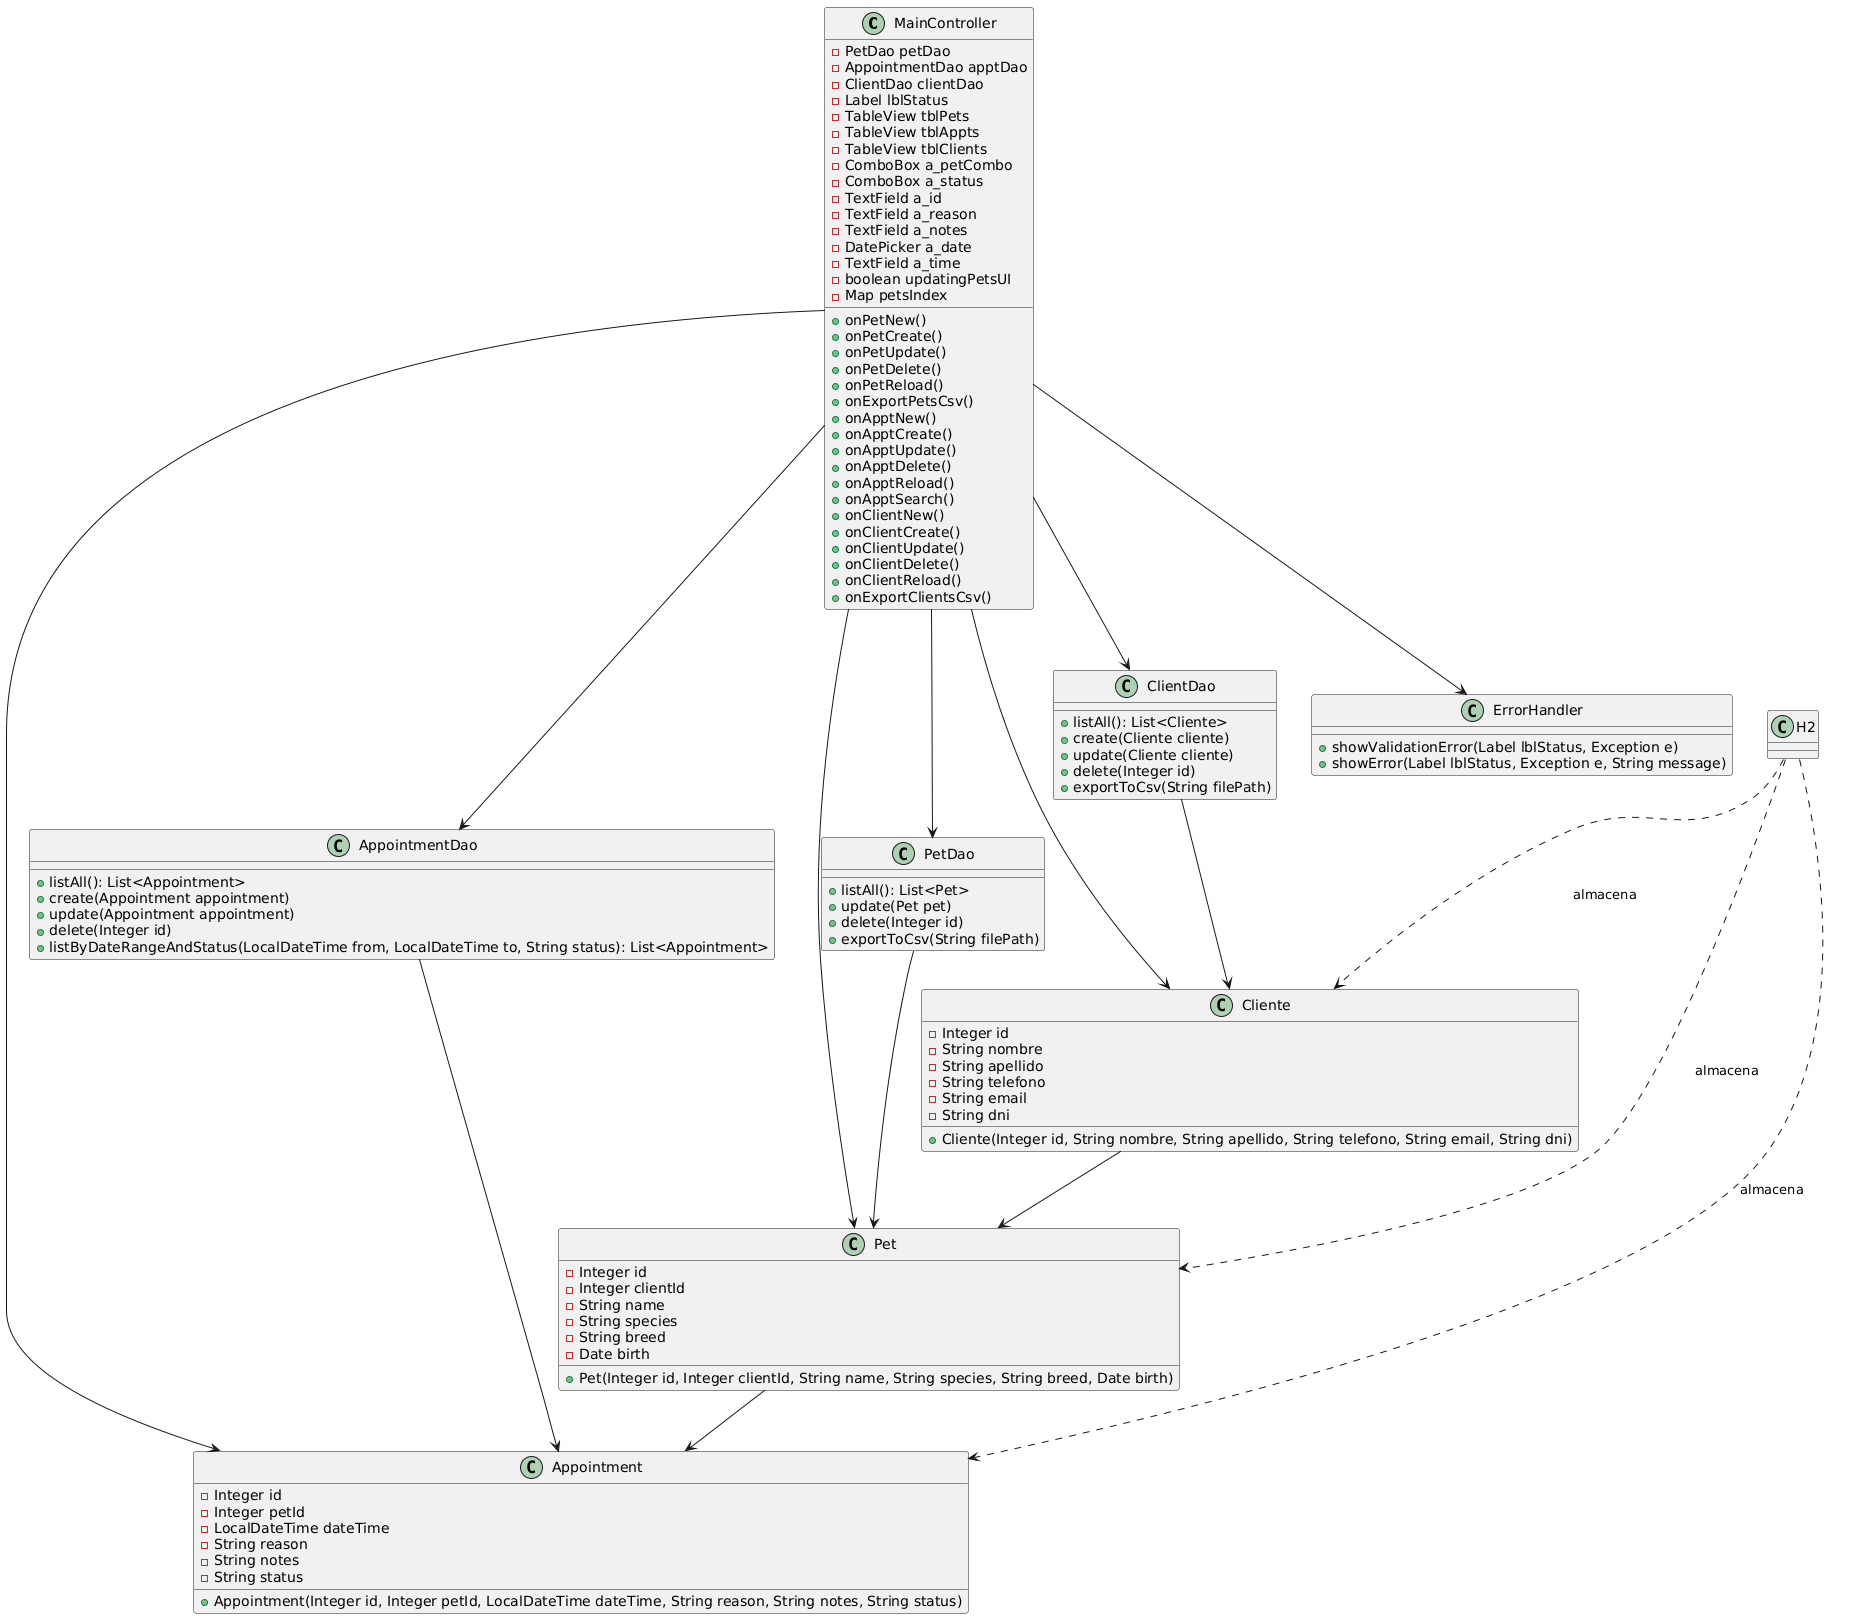
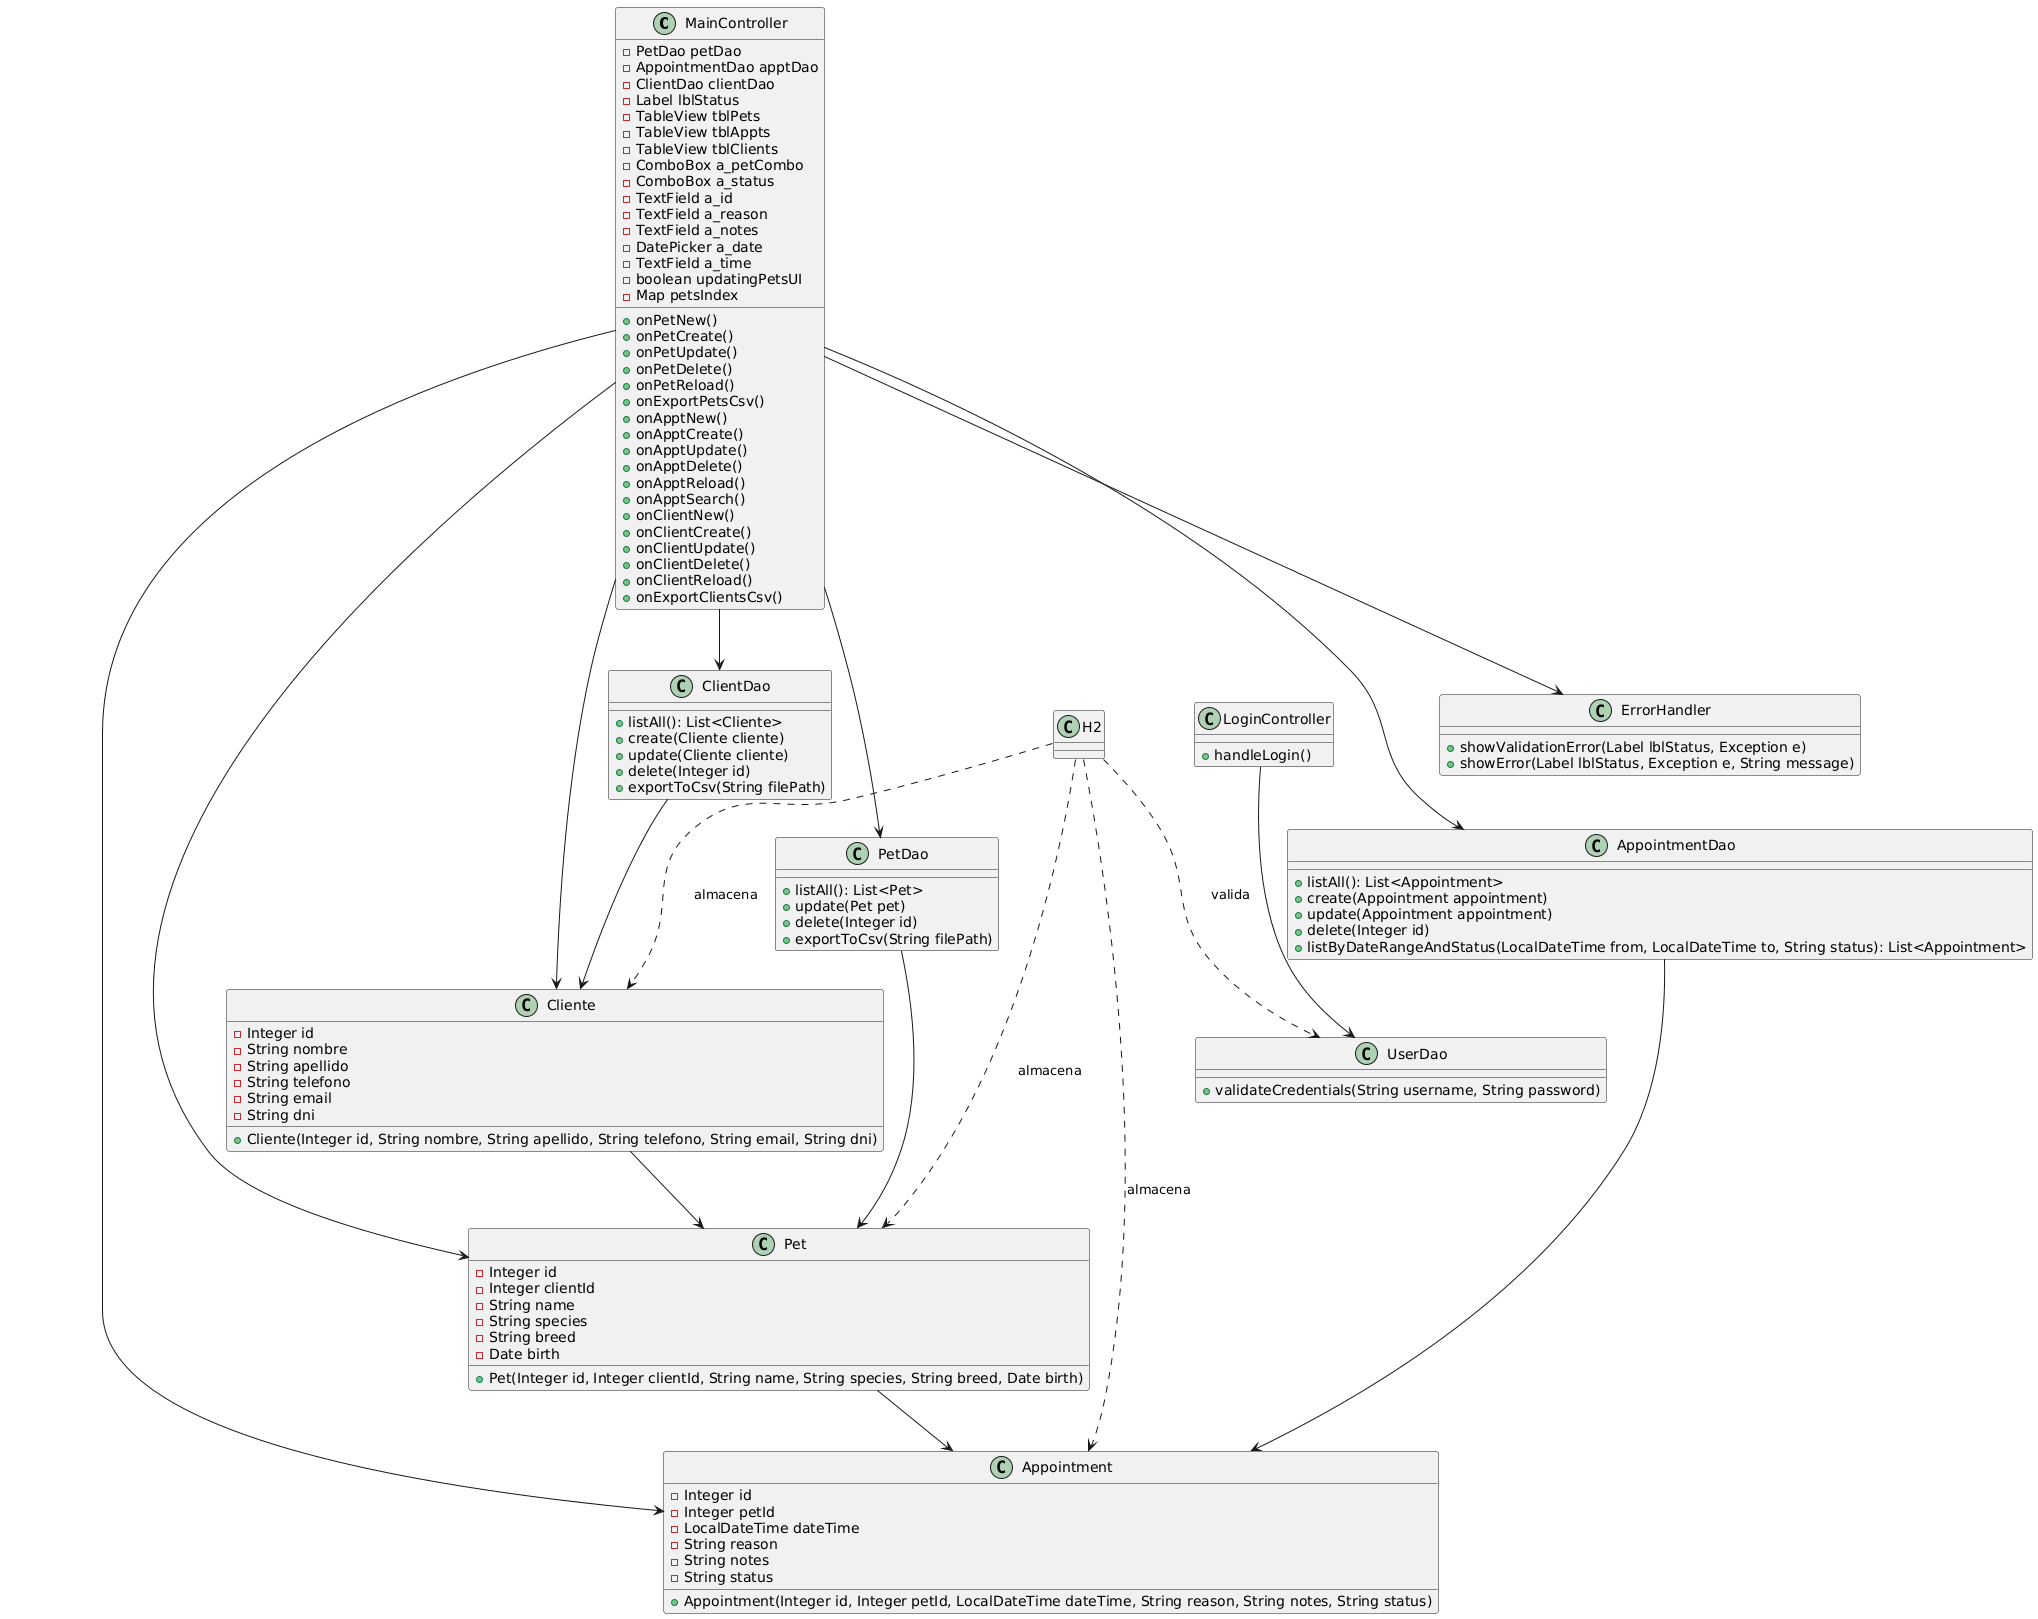
Agregando login y mejorando vista

diff --git a/src/main/resources/style.css b/src/main/resources/style.css
@@ -1,3 +1,33 @@
-.table-view { -fx-cell-size: 26px; }
-.label { -fx-font-size: 12px; }
-.text-field { -fx-font-size: 12px; }
+/* General */
+.root {
+    -fx-font-family: "Arial";
+    -fx-font-size: 14px;
+}
+
+/* Header */
+.header {
+    -fx-background-color: #2c3e50;
+    -fx-padding: 10px;
+}
+
+.header-title {
+    -fx-text-fill: white;
+    -fx-font-size: 18px;
+    -fx-font-weight: bold;
+}
+
+/* TabPane */
+.tab-pane {
+    -fx-background-color: #ecf0f1;
+    -fx-padding: 10px;
+}
+
+/* Footer */
+.footer {
+    -fx-background-color: #34495e;
+    -fx-padding: 10px;
+}
+
+.footer-label {
+    -fx-text-fill: white;
+}

diff --git a/src/main/java/com/dhuapaya/sistemaveterinaria/LoginController.java b/src/main/java/com/dhuapaya/sistemaveterinaria/LoginController.java
@@ -1,0 +1,46 @@
+package com.dhuapaya.sistemaveterinaria;
+
+import com.dhuapaya.sistemaveterinaria.dao.UserDao;
+import javafx.fxml.FXML;
+import javafx.fxml.FXMLLoader;
+import javafx.scene.Scene;
+import javafx.scene.control.Label;
+import javafx.scene.control.PasswordField;
+import javafx.scene.control.TextField;
+import javafx.stage.Stage;
+
+public class LoginController {
+
+    @FXML
+    private TextField usernameField;
+
+    @FXML
+    private PasswordField passwordField;
+
+    @FXML
+    private Label lblStatus;
+
+    @FXML
+    private final UserDao userDao = new UserDao();
+
+    @FXML
+    private void handleLogin() {
+        String username = usernameField.getText();
+        String password = passwordField.getText();
+
+        try {
+            if (userDao.validateCredentials(username, password)) {
+                // Redirigir a main.fxml
+                FXMLLoader loader = new FXMLLoader(getClass().getResource("/main.fxml"));
+                Stage stage = (Stage) usernameField.getScene().getWindow();
+                stage.setScene(new Scene(loader.load()));
+                stage.show();
+            } else {
+                lblStatus.setText("Usuario o contraseña incorrectos.");
+            }
+        } catch (Exception e) {
+            lblStatus.setText("Error al iniciar sesión.");
+            e.printStackTrace();
+        }
+    }
+}

diff --git a/src/main/java/com/dhuapaya/sistemaveterinaria/dao/UserDao.java b/src/main/java/com/dhuapaya/sistemaveterinaria/dao/UserDao.java
@@ -1,0 +1,27 @@
+package com.dhuapaya.sistemaveterinaria.dao;
+
+import com.dhuapaya.sistemaveterinaria.db.H2;
+
+import java.sql.Connection;
+import java.sql.PreparedStatement;
+import java.sql.ResultSet;
+
+public class UserDao {
+
+    public boolean validateCredentials(String username, String password) throws Exception {
+        String sql = "SELECT COUNT(*) FROM users WHERE username = ? AND password = ?";
+        try (Connection cn = H2.get();
+             PreparedStatement ps = cn.prepareStatement(sql)) {
+
+            ps.setString(1, username);
+            ps.setString(2, password);
+
+            try (ResultSet rs = ps.executeQuery()) {
+                if (rs.next()) {
+                    return rs.getInt(1) > 0; // Devuelve true si las credenciales son válidas
+                }
+            }
+        }
+        return false;
+    }
+}

diff --git a/src/main/java/com/dhuapaya/sistemaveterinaria/App.java b/src/main/java/com/dhuapaya/sistemaveterinaria/App.java
@@ -9,7 +9,7 @@ import java.util.Objects;
 public class App extends Application {
     @Override
     public void start(Stage stage) throws Exception {
-        Scene scene = new Scene(FXMLLoader.load(Objects.requireNonNull(getClass().getResource("/main.fxml"))));
+        Scene scene = new Scene(FXMLLoader.load(Objects.requireNonNull(getClass().getResource("/login.fxml"))));
         stage.setTitle("Veterinaria - CRUD");
         stage.setScene(scene);
         stage.show();
